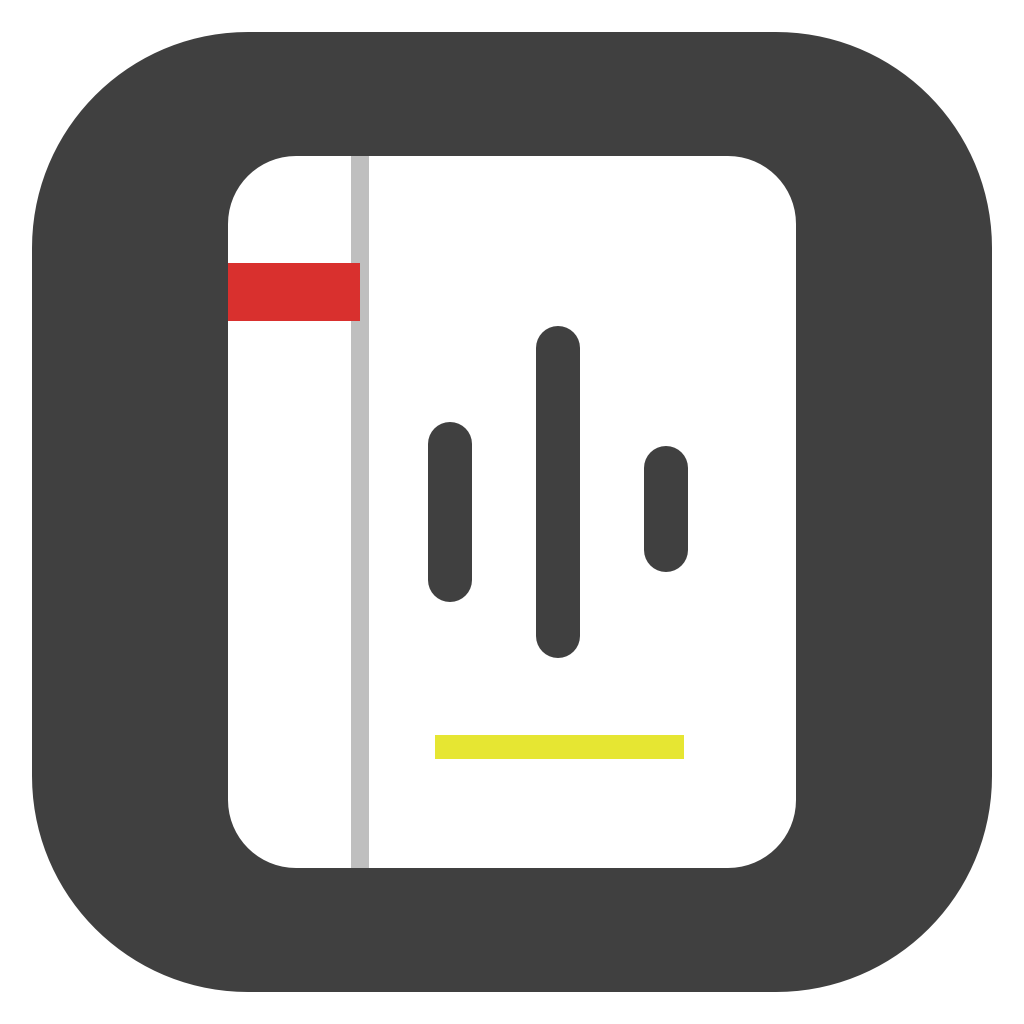
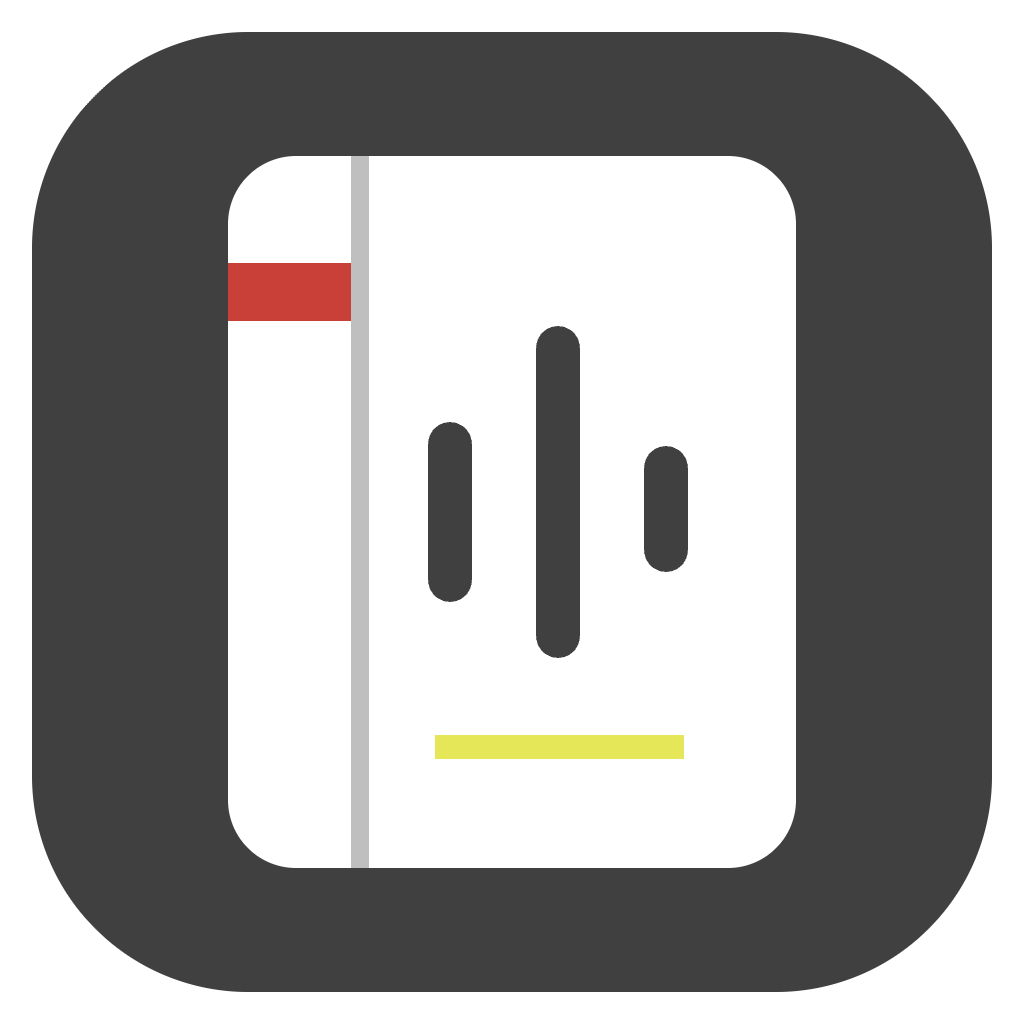
feat: align desktop layout with Paper designs

Changed region(s): [[0.4062, 0.7188, 0.6875, 0.75], [0.3438, 0.25, 0.375, 0.3125]]

diff --git a/web/home.js b/web/home.js
@@ -1,4 +1,4 @@
-let homeSignature='',workspaceReady=false,sourcePathLoaded=false,uploadStage='options';
+let homeSignature='',homeWeek=null,workspaceReady=false,sourcePathLoaded=false,uploadStage='options';
 window.uploadRecordingIds=[];
 const permissionLabel={authorized:'Enabled',limited:'Selected photos only',notDetermined:'Optional',denied:'Off',restricted:'Restricted',unavailable:'Mac app required'};
 function nativeAction(action){if(native)native.postMessage({action});else notice('Open the Mac app to manage system access.',true);}
@@ -6,6 +6,11 @@ window.refreshAccess=async()=>{if(token)await action('/api/permissions/refresh',
 $('voice-grant').onclick=()=>nativeAction('fullDiskAccess');
 $('photos-grant').onclick=$('upload-photos-grant').onclick=()=>window.explainPhotos();
 $('home-import').onclick=()=>view('setup');
+$('home-scan').onclick=()=>$('scan').click();
+function setHomeWeek(week){homeWeek=week;homeSignature='';window.renderWorkflow();}
+$('home-previous').onclick=()=>setHomeWeek(homeWeek-1);
+$('home-next').onclick=()=>setHomeWeek(homeWeek+1);
+$('home-today').onclick=()=>setHomeWeek(state.overview.week);
 $('source-folder').onclick=()=>{if(native)nativeAction('chooseFolder');else $('source-path-input').focus();};
 window.openSettings=()=>{
   if(native&&!settingsWindow){nativeAction('settings');return;}
@@ -15,7 +20,7 @@ window.openSettings=()=>{
 };
 $('open-settings').onclick=$('gate-settings').onclick=window.openSettings;
 $('settings-close').onclick=()=>$('settings-dialog').close();
-$('settings-dialog').addEventListener('close',()=>{$('workspace-nav').after($('notice'));});
+$('settings-dialog').addEventListener('close',()=>{$('access-gate').before($('notice'));});
 if(settingsWindow){
   document.body.classList.add('settings-window');
   $('settings-content').prepend($('notice'));
@@ -57,7 +62,7 @@ function renderUpload(){
   if(!$('upload-photo-review').hidden)window.renderClassPhotos?.(state);
 }
 window.beginPhotoUpload=()=>{uploadStage='photo_upload';renderUpload();};
-function openClassRecordings(value){view('recordings');const matches=recordingMatches(value,state.overview.week,state.config.lectures);window.recordingScope=new Set(matches.map(r=>r.id));renderRecords();if(!matches.length)notice('No recording matched this class yet.');}
+function openClassRecordings(value){view('recordings');const matches=recordingMatches(value,homeWeek,state.config.lectures);window.recordingScope=new Set(matches.map(r=>r.id));renderRecords();if(!matches.length)notice('No recording matched this class yet.');}
 window.recordingInScope=recording=>!window.recordingScope||window.recordingScope.has(recording.id);
 document.querySelectorAll('.filter').forEach(button=>button.addEventListener('click',()=>{window.recordingScope=null;renderRecords();}));
 window.renderWorkflow=()=>{
@@ -82,14 +87,21 @@ window.renderWorkflow=()=>{
   else if(!workspaceReady)view(activeView);
   workspaceReady=ready;
   $('home-import').textContent=state.config.lectures.length?'Edit timetable':'Set up timetable';
-  $('home-title').textContent=overview.week?`Week ${overview.week}`:'This week';
+  if(homeWeek===null)homeWeek=overview.week||null;
+  if(homeWeek!==null)homeWeek=Math.max(1,Math.min(Number(state.config.semester_weeks)||16,homeWeek));
+  const currentWeek=homeWeek===overview.week,weekStart=homeWeek&&state.config.week_one?new Date(Date.parse(state.config.week_one+'T12:00:00Z')+(homeWeek-1)*604800000):null;
+  const formatDate=date=>new Intl.DateTimeFormat('en-GB',{timeZone:'UTC',day:'numeric',month:'short'}).format(date);
+  $('home-title').textContent=homeWeek?`Week ${homeWeek}`:'This week';
+  $('home-dates').textContent=weekStart?`${formatDate(weekStart)} – ${formatDate(new Date(weekStart.getTime()+6*86400000))}${currentWeek?' · ':''}`:'';
+  $('home-previous').disabled=!homeWeek||homeWeek<=1;$('home-next').disabled=!homeWeek||homeWeek>=Number(state.config.semester_weeks);$('home-today').disabled=!overview.week||currentWeek;
+  $('home-scan').disabled=state.job.busy;
   const displayTime=iso=>new Intl.DateTimeFormat('en-GB',{timeZone:state.config.timezone,hour:'2-digit',minute:'2-digit'}).format(new Date(iso));
-  $('home-current').textContent=overview.current?`Now · ${overview.current.course} until ${displayTime(overview.current.ends_at)}`:overview.next?`Next · ${overview.next.course} · ${new Intl.DateTimeFormat('en-GB',{timeZone:state.config.timezone,weekday:'short'}).format(new Date(overview.next.starts_at))} ${displayTime(overview.next.starts_at)}`:overview.week?'No more classes this week.':'';
-  $('home-coverage').textContent=overview.past_count?`${overview.matched_count} of ${overview.past_count} past classes matched`:overview.week?'No completed classes yet.':'';
-  $('home-captured').textContent=overview.coverage_percent==null?'':`${overview.coverage_percent}% audio coverage`;
-  const signature=JSON.stringify([state.config.lectures,state.config.week_one,overview.week,overview.classes,state.recordings,overview.now?.slice(0,16)]);
+  $('home-current').textContent=currentWeek?(overview.current?`Now · ${overview.current.course} until ${displayTime(overview.current.ends_at)}`:overview.next?`Next · ${overview.next.course} · ${new Intl.DateTimeFormat('en-GB',{timeZone:state.config.timezone,weekday:'short'}).format(new Date(overview.next.starts_at))} ${displayTime(overview.next.starts_at)}`:overview.week?'No more classes this week.':''):'';
+  $('home-coverage').textContent=currentWeek?(overview.past_count?`${overview.matched_count} of ${overview.past_count} past classes matched`:overview.week?'No completed classes yet.':''):'';
+  $('home-captured').textContent=currentWeek&&overview.coverage_percent!=null?`${overview.coverage_percent}% audio coverage`:'';
+  const signature=JSON.stringify([state.config.lectures,state.config.week_one,homeWeek,overview.classes,state.recordings,overview.now?.slice(0,16)]);
   if(signature!==homeSignature){homeSignature=signature;
-    if(overview.week&&state.config.lectures.length){const parts=Object.fromEntries(new Intl.DateTimeFormat('en-CA',{timeZone:state.config.timezone,year:'numeric',month:'2-digit',day:'2-digit',hour:'2-digit',minute:'2-digit',hourCycle:'h23'}).formatToParts(new Date(overview.now)).map(p=>[p.type,p.value]));drawWeeklyCalendar($('home-calendar'),state.config.lectures,{week:overview.week,weekOne:state.config.week_one,classes:overview.classes,now:{date:`${parts.year}-${parts.month}-${parts.day}`,minute:Number(parts.hour)*60+Number(parts.minute)},onEdit:openClassRecordings,onMove:(value,change)=>moveWeeklyClass(value,change,true)});}
+    if(homeWeek&&state.config.lectures.length){const parts=Object.fromEntries(new Intl.DateTimeFormat('en-CA',{timeZone:state.config.timezone,year:'numeric',month:'2-digit',day:'2-digit',hour:'2-digit',minute:'2-digit',hourCycle:'h23'}).formatToParts(new Date(overview.now)).map(p=>[p.type,p.value]));drawWeeklyCalendar($('home-calendar'),state.config.lectures,{week:homeWeek,weekOne:state.config.week_one,classes:currentWeek?overview.classes:[],now:currentWeek?{date:`${parts.year}-${parts.month}-${parts.day}`,minute:Number(parts.hour)*60+Number(parts.minute)}:null,onEdit:openClassRecordings,onMove:(value,change)=>moveWeeklyClass(value,change,true,homeWeek)});}
     else{const empty=el('div',null,'home-empty');empty.append(el('p',overview.season==='upcoming'?'Your semester hasn’t started yet.':overview.season==='ended'?'Your semester has ended.':'Add your timetable to see this week.'));$('home-calendar').replaceChildren(empty);}
   }
   renderUpload();

diff --git a/web/index.html b/web/index.html
@@ -5,17 +5,17 @@
 <link rel="stylesheet" href="/studio.css">
 </head><body>
 <header>
-  <a class="brand" href="/" aria-label="voiceNotebook home"><svg aria-hidden="true" viewBox="0 0 40 40" fill="none"><rect x="6" y="5" width="28" height="31" rx="4" stroke="currentColor" stroke-width="2.5"/><path d="M13 5v31M20 24v-8M25 27V13M30 22v-4" stroke="currentColor" stroke-width="2.5" stroke-linecap="round"/><path d="M6 11h7" stroke="#D9302E" stroke-width="4"/></svg><span>voiceNotebook</span></a>
-  <div class="header-actions"><button id="continue-onboarding" class="settings-shortcut" hidden>Continue setup</button><button id="open-settings" class="settings-shortcut" aria-label="Open Settings">Settings…</button><button class="connection-shortcut" id="connection-shortcut" hidden><span id="connection-light" aria-hidden="true"></span><span id="connection-label">NotebookLM offline</span><span aria-hidden="true">↗</span></button></div>
+  <a class="brand" href="/" aria-label="voiceNotebook home"><svg aria-hidden="true" viewBox="0 0 40 40" fill="none"><rect x="6" y="5" width="28" height="31" rx="4" stroke="#404040" stroke-width="2.5"/><path d="M13 5v31M18.5 24v-8M23.5 27V13M28.5 22v-4" stroke="#404040" stroke-width="2.5" stroke-linecap="round"/><path d="M6 11h7" stroke="#D9302E" stroke-width="4"/></svg><span>voiceNotebook</span></a>
+  <nav id="workspace-nav" aria-label="Workspace" hidden><button class="tab active" data-view="home" aria-pressed="true">This week</button><button class="tab" data-view="recordings" aria-pressed="false">Recordings <span id="count">0</span></button><button class="tab" data-view="setup" aria-pressed="false">Timetable</button></nav>
+  <div class="header-actions"><button id="continue-onboarding" class="settings-shortcut" hidden>Continue setup</button><button class="connection-shortcut" id="connection-shortcut" hidden><span id="connection-light" aria-hidden="true"></span><span id="connection-label">NotebookLM offline</span></button><button id="open-settings" class="settings-shortcut" aria-label="Open Settings"><svg aria-hidden="true" viewBox="0 0 24 24"><path d="M9 3h6l1 3 3 1v6l-3 1-1 3H9l-1-3-3-1V7l3-1z" fill="none" stroke="currentColor" stroke-width="1.7"/><circle cx="12" cy="10" r="3" fill="none" stroke="currentColor" stroke-width="1.7"/></svg></button></div>
 </header>
 <main>
-<nav id="workspace-nav" aria-label="Workspace" hidden><button class="tab active" data-view="home" aria-pressed="true">This week</button><button class="tab" data-view="recordings" aria-pressed="false">Recordings <span id="count">0</span></button><button class="tab" data-view="setup" aria-pressed="false">Timetable & setup</button></nav>
 <div id="notice" role="status" aria-live="polite" hidden></div>
 <section id="access-gate" class="access-gate" aria-labelledby="access-gate-title"><div class="gate-icon" aria-hidden="true">♫</div><h1 id="access-gate-title">Connect your recordings</h1><p>Allow Voice Memos access or choose a folder of exported audio in Settings to get started.</p><button id="gate-settings" class="secondary">Open Settings…</button><span id="access-gate-status" role="status">Checking access…</span></section>
 <section id="home-view" aria-label="This week" hidden>
-  <div class="toolbar"><div><h1 id="home-title">This week</h1><p id="home-current"></p></div><button id="home-import" class="secondary">Set up timetable</button></div>
-  <div class="home-progress"><span id="home-coverage"></span><span id="home-captured"></span><span data-help="Matched counts past classes with a recording. Audio coverage measures recorded minutes inside those classes. Overlapping recordings count once; future and current classes are excluded."></span></div>
+  <div class="toolbar"><div><h1 id="home-title">This week</h1><p><span id="home-dates"></span><span id="home-current"></span></p></div><div class="actions home-actions"><div class="week-controls"><button id="home-previous" type="button" aria-label="Previous week">‹</button><button id="home-today" type="button">Today</button><button id="home-next" type="button" aria-label="Next week">›</button></div><button id="home-import" class="secondary">Set up timetable</button><button id="home-scan" type="button" class="primary">Scan recordings</button></div></div>
   <div id="home-calendar" role="region" aria-label="Current week calendar"></div>
+  <div class="home-progress"><span><span id="home-coverage"></span><span id="home-captured"></span><span data-help="Matched counts past classes with a recording. Audio coverage measures recorded minutes inside those classes. Overlapping recordings count once; future and current classes are excluded."></span></span><span>Original recordings stay on your Mac.</span></div>
 </section>
 <section id="recordings-view" aria-label="Recording library" hidden>
   <div class="toolbar"><div><h1>Recordings</h1><p id="queue-description">Your Voice Memos library.</p></div><div class="actions"><button id="scan" class="secondary">Scan recordings</button><button id="sync" class="primary">Convert & upload <span aria-hidden="true">↗</span></button></div></div>
@@ -27,7 +27,7 @@
 </section>
 <section id="setup-view" aria-label="Timetable and settings" hidden>
   <form id="setup-form" novalidate>
-    <div class="toolbar calendar-title"><h1>Timetable</h1><div class="actions"><button id="import-timetable" type="button" class="secondary">Import photo…</button><input id="timetable-image" type="file" accept="image/*,.heic,.heif" hidden><button id="add-slot" type="button" class="primary">+ Class</button></div></div>
+    <div class="toolbar calendar-title"><div><h1>Timetable</h1><p>Recurring weekly plan · Click or drag a class to edit its times.</p></div><div class="actions"><button id="import-timetable" type="button" class="secondary">Import photo…</button><input id="timetable-image" type="file" accept="image/*,.heic,.heif" hidden><button id="add-slot" type="button" class="secondary">+ Class</button><button type="submit" class="primary">Save timetable</button></div></div>
     <div id="timetable-import-status" role="status" aria-live="polite" hidden></div><details id="timetable-detected" hidden><summary>Detected text</summary><pre id="timetable-text"></pre></details>
     <div class="calendar-controls"><div class="week-controls"><button id="previous-week" type="button" aria-label="Previous week">‹</button><select id="calendar-week" aria-label="Week"></select><button id="next-week" type="button" aria-label="Next week">›</button></div><span id="calendar-draft"></span><span class="calendar-legend"><span aria-hidden="true">●</span> Recording</span></div>
     <div id="weekly-calendar" role="region" aria-label="Weekly timetable"></div><div id="incomplete-classes"></div>
@@ -38,7 +38,7 @@
       <label>Early start allowance (minutes)<input id="tolerance" type="number" min="0" max="60" required></label>
       <label class="check wide"><input id="auto-sync" type="checkbox"><span>Automatic sync</span></label>
     </div></details>
-    <div class="save-bar"><span id="save-help"></span><button type="submit" class="primary">Save setup</button></div>
+    <div class="save-bar"><span id="save-help"></span><span>Changes apply only after Save.</span></div>
   </form>
 </section>
 <section id="connection-view" aria-label="NotebookLM connection" hidden>

diff --git a/web/studio.css b/web/studio.css
@@ -1,17 +1,18 @@
 /* Studio archive: the supplied palette, quiet surfaces and familiar Mac controls. */
 :root{--surface:oklch(.964 0 0);--line:oklch(.89 0 0);--muted:oklch(.50 0 0)}
 body{font-size:14px;line-height:1.45}
-header{height:84px;padding:0 40px;background:var(--white);color:var(--charcoal);border-bottom:1px solid var(--line)}
+header{height:84px;padding:0 40px;display:grid;grid-template-columns:1fr auto 1fr;gap:16px;background:var(--white);color:var(--charcoal);border-bottom:1px solid var(--line)}
 .brand{color:var(--charcoal);font-size:25px;letter-spacing:-.04em;font-weight:500;gap:11px}
 .brand svg{width:30px;height:30px;flex-shrink:0}.brand>span{font-weight:500}.brand i{display:none}
-.header-actions{gap:18px;margin-left:auto}.settings-shortcut,.connection-shortcut{color:var(--charcoal);font-size:13px;font-weight:400}
+.header-actions{gap:18px;justify-self:end;margin-left:0}.settings-shortcut,.connection-shortcut{color:var(--charcoal);font-size:13px;font-weight:400}
+.settings-shortcut svg{display:block;width:18px;height:18px}
 .connection-shortcut>span:first-child{border-radius:50%;width:6px;height:6px;background:var(--silver);border:0}
 .connection-shortcut>span:first-child.connected{background:var(--charcoal);border:0}
 main{max-width:1440px;padding:0 40px}
-nav{gap:6px;padding:12px 0;border-bottom:1px solid var(--line)}
+nav{gap:5px;padding:0;border:0;justify-content:center}
 .tab{padding:9px 16px;font-size:13px;font-weight:450;border-radius:6px}
 .tab.active{background:var(--surface);font-weight:600}.tab.active:after{display:none}
-.tab>span{background:transparent;font:11px var(--mono);padding:0 0 0 2px;color:var(--muted)}
+.tab>span{display:none}
 h1,.calendar-title h1{font-size:30px;font-weight:600;letter-spacing:-.025em}
 h2{font-size:18px}.toolbar,.calendar-title{padding:30px 0 26px}
 .toolbar p,.section-heading p{font-size:14px}
@@ -23,7 +24,7 @@ button:focus-visible,a:focus-visible{outline-width:2px;outline-offset:3px}
 input,select{border-radius:6px;font-size:14px;min-height:36px;padding:9px 11px}
 label,.hint,label small{font-size:13px}summary{font-size:13px}
 .filters{gap:24px;padding:8px 0 20px}.filter{font-size:13px}
-.column-head{background:var(--white);color:var(--muted);border-bottom:1px solid var(--line);font-size:11px;padding:12px 0}
+.column-head{display:none}
 .recording-list{border:0;min-height:280px}.recording{padding:22px 0;gap:24px}
 .recording-name{font-size:15px;font-weight:500}.recording small{font-size:12px;line-height:1.6}
 .recording .row-actions{gap:8px;flex-wrap:wrap}.recording button{font-size:12px;min-height:32px;border-radius:5px}
@@ -33,8 +34,11 @@ label,.hint,label small{font-size:13px}summary{font-size:13px}
 .badge.approved{background:var(--surface);border:0;padding:4px 7px}.badge.error{padding:4px 7px;border-radius:4px}
 .recording-week{padding:14px 0;border-top:1px solid var(--silver);border-bottom:1px solid var(--line);background:var(--white)}
 .recording-week h2{font-size:14px}.recording-week span{font-size:12px}
-.home-progress{font-size:13px;margin:0 0 22px;gap:20px}
-.calendar-scroll{border:0;border-bottom:1px solid var(--line);border-radius:0;max-height:62vh}
+.home-progress{justify-content:space-between;font-size:13px;margin:0;gap:20px;padding:20px 0;border-top:1px solid var(--line)}
+.home-progress #home-captured{color:var(--muted)}
+.home-progress #home-captured:not(:empty):before{content:' · '}
+.home-actions{gap:8px}.home-actions .week-controls{margin-right:12px;gap:8px}.home-actions .week-controls button{width:32px;font-size:18px}.home-actions #home-today{width:auto;padding:0 14px;font-size:13px}
+.calendar-scroll{border:0;border-radius:0;height:min(594px,calc(100vh - 280px));min-height:300px;max-height:none}
 .calendar-head{border-color:var(--line)}.calendar-day-label{justify-content:flex-start;padding:15px 12px;font-size:13px}
 .calendar-day-label strong{font-size:15px;font-weight:600}.calendar-axis>span{font-size:11px}
 .calendar-rule{background:oklch(.94 0 0)}.calendar-event{border:1px solid var(--line);border-left:3px solid var(--silver);padding:10px 12px;border-radius:5px;background:var(--white)!important;gap:5px}
@@ -72,7 +76,8 @@ dialog::backdrop{background:oklch(.3 0 0 / .25)}
 footer{border-color:var(--line);font:12px/1.6 -apple-system,BlinkMacSystemFont,"Segoe UI",sans-serif;padding:22px 0}
 .onboarding-step{font:12px var(--mono)}.onboarding-title{font-size:28px}
 @media(min-width:1051px){.column-head,.recording{grid-template-columns:minmax(240px,1.5fr) minmax(160px,1fr) 120px minmax(250px,1fr)}}
-@media(max-width:1050px){header{padding:0 28px}.recording{gap:14px}}
+@media(max-width:1050px){header{padding:0 28px}.recording{gap:14px}.header-actions{gap:8px}}
+@media(max-width:850px){header{height:auto;min-height:84px;grid-template-columns:1fr auto;padding-top:14px;padding-bottom:10px}header nav{grid-column:1/-1;grid-row:2;justify-self:start}.header-actions{grid-column:2;grid-row:1}.calendar-scroll{height:min(594px,calc(100vh - 320px))}}
 @media(max-width:800px){main{padding:0 24px}.column-head{display:none}.recording{padding:20px 0}.recording-list{border-top:1px solid var(--line)}}
 @media(max-width:650px){#upload-photo-review .class-photo{grid-template-columns:1fr;gap:20px}#upload-photo-review .photo-open img{height:260px}}
-@media(max-width:570px){header{height:72px;padding:0 18px;gap:12px}.brand{font-size:22px;gap:8px}.brand svg{width:26px;height:26px}.header-actions{gap:10px}.connection-shortcut{font-size:0}.settings-shortcut{font-size:12px}.settings-shortcut:first-child:not(#open-settings){font-size:11px}main{padding:0 18px}nav{gap:4px}.tab{font-size:12px;padding:9px 10px}.toolbar{padding:26px 0 22px}h1,.calendar-title h1{font-size:27px}.actions{gap:8px}.primary,.secondary{font-size:12px}.filters{gap:18px}.filter{font-size:12px}.home-progress{font-size:12px;gap:12px}.calendar-day-label{padding:12px 7px}.calendar-event{padding:8px}.calendar-event strong{font-size:12px}.recording small{font-size:11px}.upload-dialog{padding:20px}.access-gate{padding:44px 0}.access-gate h1{font-size:27px}footer{font-size:11px}}
+@media(max-width:570px){header{padding:14px 18px 10px;gap:10px}.brand{font-size:22px;gap:8px}.brand svg{width:26px;height:26px}.header-actions{gap:10px}.connection-shortcut{font-size:0}.settings-shortcut{font-size:12px}.settings-shortcut:first-child:not(#open-settings){font-size:11px}main{padding:0 18px}nav{gap:4px}.tab{font-size:12px;padding:9px 10px}.toolbar{padding:26px 0 22px}h1,.calendar-title h1{font-size:27px}.actions{gap:8px}.home-actions{flex-wrap:wrap}.home-actions button{flex:initial}.home-progress{flex-wrap:wrap}.primary,.secondary{font-size:12px}.filters{gap:18px}.filter{font-size:12px}.home-progress{font-size:12px;gap:12px}.calendar-day-label{padding:12px 7px}.calendar-event{padding:8px}.calendar-event strong{font-size:12px}.recording small{font-size:11px}.upload-dialog{padding:20px}.access-gate{padding:44px 0}.access-gate h1{font-size:27px}footer{font-size:11px}}

diff --git a/mac/Icon.swift b/mac/Icon.swift
@@ -1,34 +1,8 @@
 import AppKit
 
 let target = CommandLine.arguments[1]
-let bitmap = NSBitmapImageRep(bitmapDataPlanes: nil, pixelsWide: 1024, pixelsHigh: 1024, bitsPerSample: 8, samplesPerPixel: 4, hasAlpha: true, isPlanar: false, colorSpaceName: .deviceRGB, bytesPerRow: 0, bitsPerPixel: 0)!
-NSGraphicsContext.saveGraphicsState()
-NSGraphicsContext.current = NSGraphicsContext(bitmapImageRep: bitmap)
-NSColor(srgbRed: 64/255, green: 64/255, blue: 64/255, alpha: 1).setFill()
-NSBezierPath(roundedRect: NSRect(x: 32, y: 32, width: 960, height: 960), xRadius: 216, yRadius: 216).fill()
-let flip = NSAffineTransform()
-flip.translateX(by: 0, yBy: 1024)
-flip.scaleX(by: 1, yBy: -1)
-flip.concat()
-NSColor.white.setFill()
-NSBezierPath(roundedRect: NSRect(x: 228, y: 156, width: 568, height: 712), xRadius: 68, yRadius: 68).fill()
-NSColor(srgbRed: 191/255, green: 191/255, blue: 191/255, alpha: 1).setFill()
-NSBezierPath(rect: NSRect(x: 351, y: 156, width: 18, height: 712)).fill()
-NSColor(srgbRed: 64/255, green: 64/255, blue: 64/255, alpha: 1).setStroke()
-let waveform = NSBezierPath()
-waveform.lineWidth = 44
-waveform.lineCapStyle = .round
-let bars: [(CGFloat, CGFloat, CGFloat)] = [(450, 580, 444), (558, 636, 348), (666, 550, 468)]
-for (x, start, end) in bars {
-    waveform.move(to: NSPoint(x: x, y: start))
-    waveform.line(to: NSPoint(x: x, y: end))
-}
-waveform.stroke()
-NSColor(srgbRed: 217/255, green: 48/255, blue: 46/255, alpha: 1).setFill()
-NSBezierPath(rect: NSRect(x: 228, y: 263, width: 132, height: 58)).fill()
-NSColor(srgbRed: 230/255, green: 230/255, blue: 50/255, alpha: 1).setFill()
-NSBezierPath(rect: NSRect(x: 435, y: 735, width: 249, height: 24)).fill()
-NSGraphicsContext.restoreGraphicsState()
+let source = URL(fileURLWithPath: "assets/brand/app-icon.png")
+let bitmap = NSBitmapImageRep(data: try Data(contentsOf: source))!
 if CommandLine.arguments.count > 2 {
     try bitmap.representation(using: .png, properties: [:])!.write(to: URL(fileURLWithPath: CommandLine.arguments[2]))
 }

diff --git a/web/calendar.js b/web/calendar.js
@@ -33,7 +33,7 @@ function renderTimetable() {
   const dirty=JSON.stringify(values.map(comparable))!==JSON.stringify(state.config.lectures.map(comparable))||weekOne!==state.config.week_one;
   $('calendar-draft').textContent=dirty?'Unsaved changes':'';
 }
-function moveWeeklyClass(value,change,fromHome=false) {
+function moveWeeklyClass(value,change,fromHome=false,displayWeek=null) {
   const rows=classRows();
   const same=row=>{
     const draft=classValue(row);
@@ -41,10 +41,10 @@ function moveWeeklyClass(value,change,fromHome=false) {
   };
   const matches=fromHome?rows.filter(same):[];
   const row=fromHome?(matches.length===1?matches[0]:null):rows[value.index];
-  if(fromHome){calendarWeek=state.overview?.week||calendarWeek;view('setup');}
+  if(fromHome){calendarWeek=displayWeek||state.overview?.week||calendarWeek;view('setup');}
   if(!row){notice('Review your existing timetable draft before moving this class.',true);return;}
   setClassValue(row,{...classValue(row),...change});renderTimetable();
-  notice('This move affects every week. Review and save setup to apply.');
+  notice('This move affects every week. Review and save the timetable to apply.');
 }
 function drawWeeklyCalendar(root,values,options) {
   const {week,weekOne}=options;

diff --git a/web/library.css b/web/library.css
@@ -1,7 +1,6 @@
-.recording-week{display:flex;align-items:baseline;justify-content:space-between;gap:16px;padding:13px 16px;background:var(--surface);border-bottom:1px solid var(--charcoal);border-top:1px solid var(--charcoal)}
-.recording-week:first-child{border-top:0}
+.recording-week{display:flex;align-items:baseline;justify-content:space-between;gap:16px;padding:14px 0;background:var(--white);border-bottom:1px solid var(--line);border-top:1px solid var(--silver)}
 .recording-week h2{font-size:14px;font-weight:650;margin:0}
-.recording-week>span{font-family:var(--mono);font-size:11px;color:var(--muted)}
+.recording-week>span{font-size:13px;color:var(--muted)}
 .recording .row-actions{flex-wrap:wrap}
 .recording-audio{display:block;width:100%;min-width:180px;max-width:400px;height:36px;margin-top:12px}
 .recording-rename{display:flex;flex-wrap:wrap;gap:7px;margin-top:10px}

diff --git a/tests/test_ui.py b/tests/test_ui.py
@@ -63,7 +63,7 @@ class BrowserTests(unittest.TestCase):
         p.locator('.tab[data-view="recordings"]').click()
         expect(p.locator("#setup-nudge")).to_have_count(0)
         expect(p.locator("#sync")).to_be_disabled()
-        p.get_by_role('button',name='Timetable & setup',exact=True).click()
+        p.get_by_role('button',name='Timetable',exact=True).click()
         p.locator('#semester-settings').evaluate('(el)=>el.open=true')
         p.locator("#week-one").evaluate("el => el.value = '2026-09-28'")
         p.locator("#add-slot").click()
@@ -72,7 +72,7 @@ class BrowserTests(unittest.TestCase):
         p.locator('#lecture-end').fill('11:00')
         p.locator('#lecture-form').get_by_role('button',name='Done',exact=True).click()
         expect(p.locator('#weekly-calendar .calendar-event')).to_have_count(1)
-        p.get_by_role("button",name="Save setup",exact=True).click()
+        p.get_by_role("button",name="Save timetable",exact=True).click()
         expect(p.locator("#setup-nudge")).to_have_count(0)
         p.locator("#scan").click()
         expect(p.locator(".recording-name")).to_have_text("20261012-090000.qta",timeout=15000)
@@ -116,7 +116,7 @@ class BrowserTests(unittest.TestCase):
         p.screenshot(path=str(artifacts/"desktop.png"),full_page=True)
         p.set_viewport_size({"width":390,"height":844})
         self.assertFalse(p.evaluate("document.documentElement.scrollWidth > innerWidth"))
-        p.get_by_role("button",name="Timetable & setup").click()
+        p.get_by_role("button",name="Timetable",exact=True).click()
         self.assertFalse(p.evaluate("document.documentElement.scrollWidth > innerWidth"))
         p.screenshot(path=str(artifacts/"mobile-setup.png"),full_page=True)
         self.assertEqual(self.errors,[])
@@ -135,7 +135,7 @@ class BrowserTests(unittest.TestCase):
         p.set_content('<html><body style="background:white;color:black;font:32px Arial;padding:35px"><h1 style="font-size:36px">Weekly timetable</h1><p>Monday EE221 09:00-11:00</p><p>Wednesday MATH201 13:00-15:00</p></body></html>')
         p.screenshot(path=str(image))
         p.goto(self.url)
-        p.get_by_role('button',name='Timetable & setup',exact=True).click()
+        p.get_by_role('button',name='Timetable',exact=True).click()
         p.locator('#timetable-image').set_input_files(str(image))
         expect(p.locator('#timetable-import-status')).to_contain_text('classes imported',timeout=100000)
         courses=p.locator('[data-key="course"]')

diff --git a/tests/test_home_ui.py b/tests/test_home_ui.py
@@ -28,6 +28,13 @@ class HomeBrowserTests(unittest.TestCase):
             expect(page.locator('#home-captured')).to_have_text('50% audio coverage')
             expect(page.locator('#home-calendar .calendar-now')).to_be_visible()
             expect(page.locator('#home-calendar .current-class')).to_have_count(1)
+            page.locator('#home-previous').click()
+            expect(page.locator('#home-title')).to_have_text('Week 2')
+            expect(page.locator('#home-calendar .calendar-now')).to_have_count(0)
+            expect(page.locator('#home-calendar .has-recording')).to_have_count(0)
+            page.locator('#home-today').click()
+            expect(page.locator('#home-title')).to_have_text('Week 3')
+            expect(page.locator('#home-calendar .has-recording')).to_have_count(2)
             expect(page.locator('.tab[data-view="photos"]')).to_have_count(0)
             page.screenshot(path=str(Path(__file__).resolve().parents[1]/'artifacts/home-week.png'),full_page=True)
             page.locator('.tab[data-view="recordings"]').click();page.locator('#sync').click()

diff --git a/tests/test_calendar_drag_ui.py b/tests/test_calendar_drag_ui.py
@@ -109,9 +109,9 @@ class CalendarDragBrowserTests(unittest.TestCase):
         moved=calendar.locator('.calendar-day[data-day="3"] .calendar-event[data-course="EE221"]')
         expect(moved).to_contain_text('11:15–12:15')
         expect(p.locator('#calendar-draft')).to_have_text('Unsaved changes')
-        expect(p.locator('#notice')).to_have_text('This move affects every week. Review and save setup to apply.')
+        expect(p.locator('#notice')).to_have_text('This move affects every week. Review and save the timetable to apply.')
         self.assertEqual(p.request.get(self.url+'/api/state').json()['config']['lectures'][0]['day'],0)
-        p.get_by_role('button',name='Save setup',exact=True).click()
+        p.get_by_role('button',name='Save timetable',exact=True).click()
         expect(p.locator('#recordings-view')).to_be_visible()
         saved=p.request.get(self.url+'/api/state').json()['config']['lectures'][0]
         self.assertEqual((saved['day'],saved['start'],saved['end']),(3,'11:15','12:15'))
